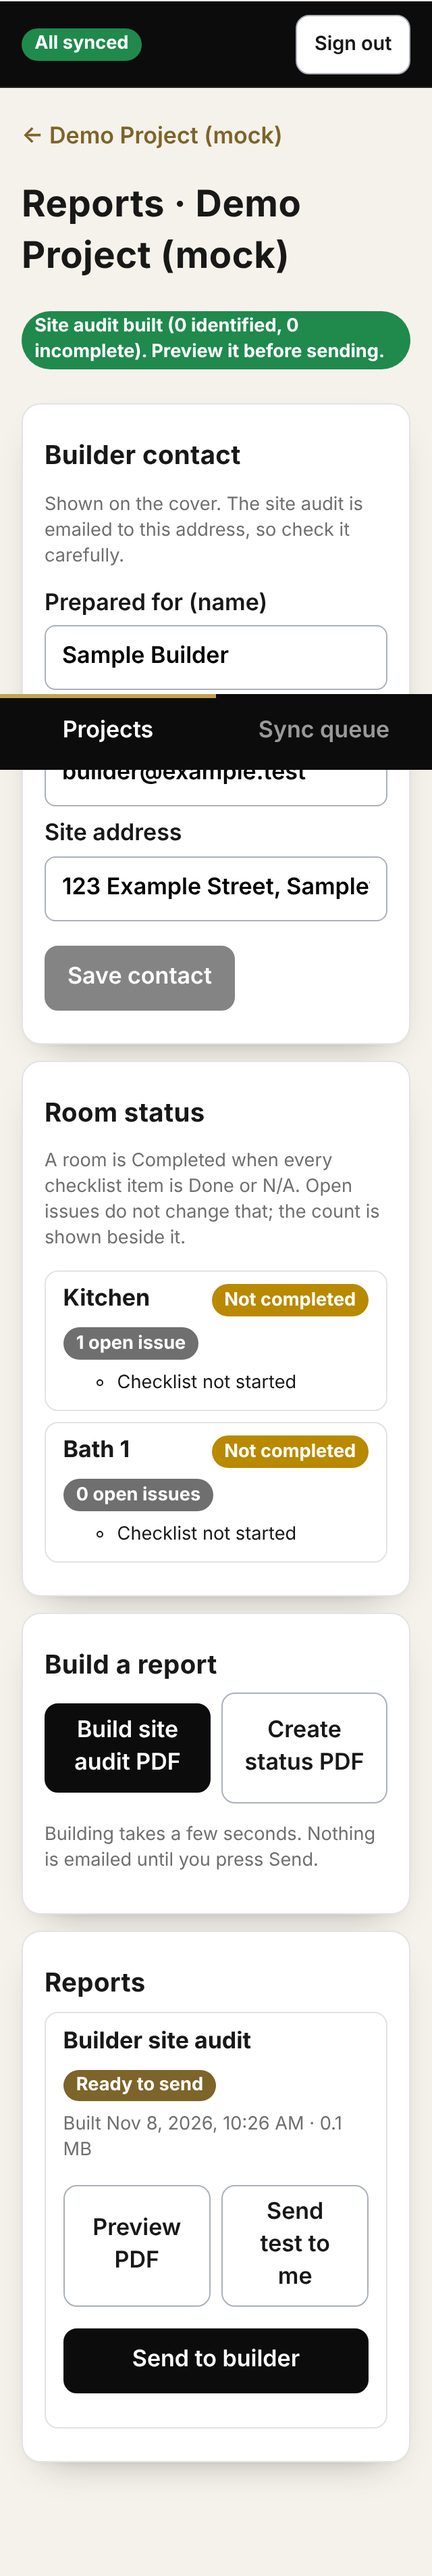
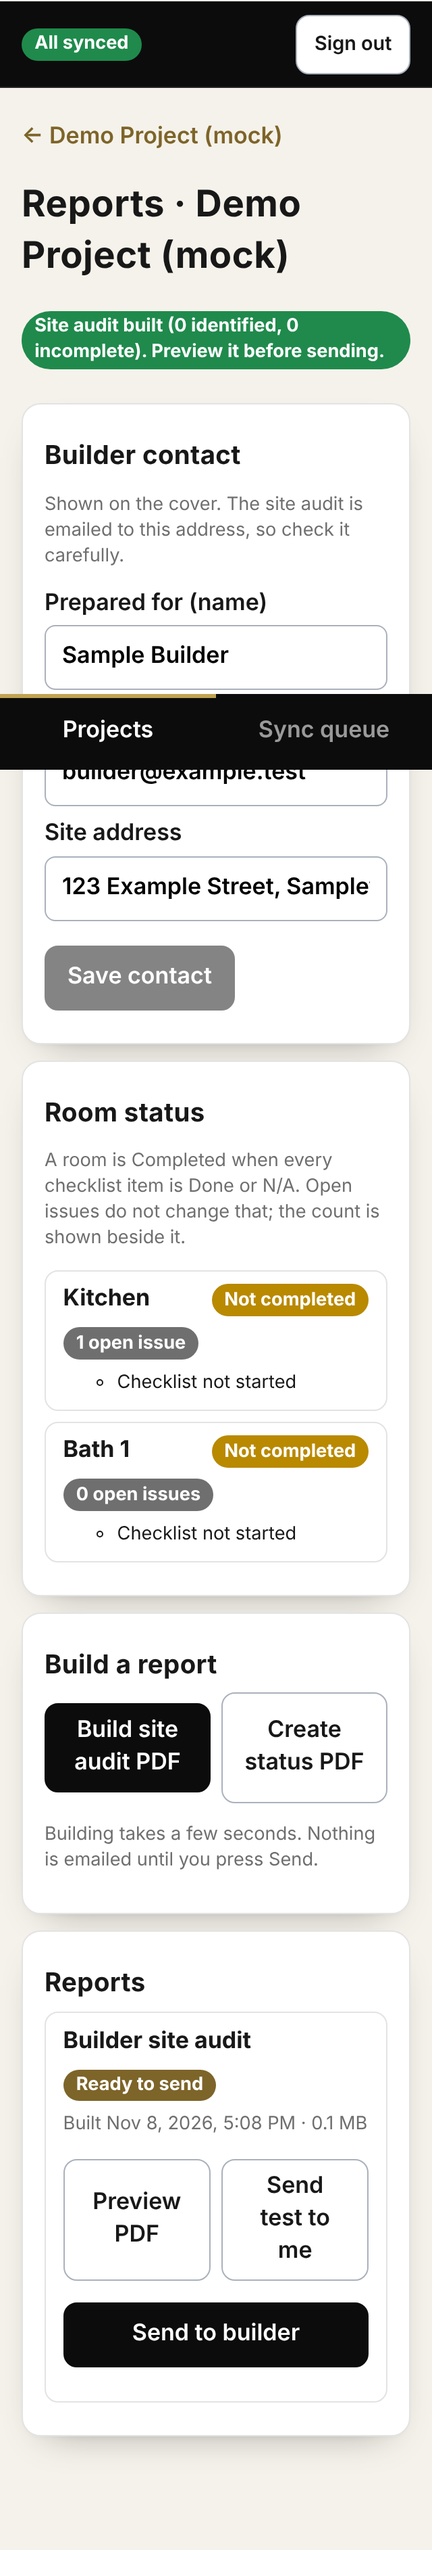
Rooms fold away (per job, remembered on the phone), Collapse all / Expand all; tests
Claude-Session: https://claude.ai/code/session_01Ko3122mEnym599Dv73L5jw

diff --git a/apps/field/src/ui/RoomCard.tsx b/apps/field/src/ui/RoomCard.tsx
@@ -14,7 +14,7 @@ function Details({ pairs }: { pairs: { key: string; label: string; value: string
 }
 
 /** One room: its details (read-only) and the completion checklist (tap a pill to mark it done). */
-export function RoomCard({ ctx, room, checks, issues, queue }: { ctx: AppCtx; room: RoomRow; checks: LocalRoomCheck[]; issues: LocalIssue[]; queue: OutboxRecord[] }) {
+export function RoomCard({ ctx, room, checks, issues, queue, collapsed = false, onToggle }: { ctx: AppCtx; room: RoomRow; checks: LocalRoomCheck[]; issues: LocalIssue[]; queue: OutboxRecord[]; collapsed?: boolean; onToggle?: () => void }) {
   const [open, setOpen] = useState<string | null>(null);
   const [asking, setAsking] = useState(false);
   const [note, setNote] = useState("");
@@ -24,6 +24,7 @@ export function RoomCard({ ctx, room, checks, issues, queue }: { ctx: AppCtx; ro
   const attention = queue.some((q) => q.op.entity === "room_check" && (q.state.status === "conflict" || (q.state.status === "failed" && !q.state.retryable)));
   const card = fieldsFor(room.details, CARD_FIELDS);
   const more = fieldsFor(room.details, MORE_FIELDS);
+  const openIssues = issues.filter((i) => !i.voidedAt && !i.completedAt).length;
 
   const cctx = { db: ctx.db, userId: ctx.identity.userId, userLabel: ctx.identity.label, newId: () => crypto.randomUUID(), now: () => new Date().toISOString(), notify: () => ctx.outbox.notify() };
   async function set(itemKey: string, state: CheckState | "clear", text?: string) {
@@ -42,13 +43,17 @@ export function RoomCard({ ctx, room, checks, issues, queue }: { ctx: AppCtx; ro
   const sel = open ? byKey.get(open) : undefined;
 
   return (
-    <section className="card room" data-testid="room-card" data-room={room.name}>
+    <section className="card room" data-testid="room-card" data-room={room.name} data-collapsed={collapsed ? "yes" : "no"}>
       <header className="roomhead">
-        <h2>{room.name}</h2>
+        <button className="roomtoggle" aria-expanded={!collapsed} onClick={onToggle} data-testid="room-toggle" aria-label={`${room.name}, ${collapsed ? "collapsed" : "expanded"}. Tap to ${collapsed ? "expand" : "collapse"}`}>
+          <span className="chev" aria-hidden="true">{collapsed ? "▸" : "▾"}</span><h2>{room.name}</h2>
+        </button>
+        {collapsed && openIssues > 0 && <span className="chip gray" data-testid="room-open-issues">{openIssues} open {openIssues === 1 ? "issue" : "issues"}</span>}
         <span className={`chip ${attention ? "bad" : prog.complete === prog.total ? "good" : prog.notDone > 0 ? "warn" : "gray"}`} data-testid="room-progress">
           {attention ? "needs attention" : `${prog.complete}/${prog.total}`}
         </span>
       </header>
+      <div hidden={collapsed} data-testid="room-body">
       {card.length > 0 ? <Details pairs={card} /> : <p className="muted small">No room details yet.</p>}
       {more.length > 0 && <details><summary>More details</summary><Details pairs={more} /></details>}
       {room.details_source && card.length + more.length > 0 && <p className="muted small">Details from {SOURCE[room.details_source] ?? room.details_source}.</p>}
@@ -94,6 +99,7 @@ export function RoomCard({ ctx, room, checks, issues, queue }: { ctx: AppCtx; ro
         <p className="notdone-note" key={c.itemKey} data-testid="notdone-line"><strong>{ROOM_CHECK_ITEMS.find((i) => i.key === c.itemKey)?.label}:</strong> {c.note} <small className="muted">— {c.by ?? "someone"}, {fmtWhen(c.at)}</small></p>
       ))}
       <IssueSection ctx={ctx} room={room} issues={issues} queue={queue} />
+      </div>
     </section>
   );
 }

diff --git a/apps/field/src/ui/ProjectView.tsx b/apps/field/src/ui/ProjectView.tsx
@@ -1,3 +1,4 @@
+import { useEffect, useState } from "react";
 import type { AppCtx } from "../App";
 import { useLive } from "./useLive";
 import { RoomCard } from "./RoomCard";
@@ -6,6 +7,11 @@ import { canManageReports } from "../lib/reportsApi";
 
 /** One job: its rooms, each with its details and checklist. */
 export function ProjectView({ ctx, projectId }: { ctx: AppCtx; projectId: string }) {
+  // Which rooms are folded away on this phone (remembered per job; nothing here is shared or synced).
+  const storeKey = `phc-rooms-collapsed:${projectId}`;
+  const [collapsed, setCollapsed] = useState<Set<string>>(() => { try { return new Set(JSON.parse(localStorage.getItem(storeKey) ?? "[]") as string[]); } catch { return new Set(); } });
+  useEffect(() => { try { localStorage.setItem(storeKey, JSON.stringify([...collapsed])); } catch { /* private window: it just will not be remembered */ } }, [collapsed, storeKey]);
+  const toggle = (id: string) => setCollapsed((c) => { const n = new Set(c); if (n.has(id)) n.delete(id); else n.add(id); return n; });
   const data = useLive(ctx.tick, async () => ({
     project: await ctx.db.get("projects", projectId),
     rooms: (await ctx.db.getAllFromIndex("rooms", "by_project", projectId)).sort((a, b) => a.name.localeCompare(b.name, undefined, { numeric: true })),
@@ -23,9 +29,15 @@ export function ProjectView({ ctx, projectId }: { ctx: AppCtx; projectId: string
       <h1>{project.name}</h1>
       <p className="muted">{[project.customer, project.address].filter(Boolean).join(" · ") || "No customer or address"}</p>
       {canManageReports(data.roles, projectId) && <div className="btnrow"><button onClick={() => ctx.go({ name: "reports", projectId })} data-testid="open-reports">Reports and builder contact</button></div>}
+      {rooms.length > 1 && (
+        <div className="btnrow">
+          <button onClick={() => setCollapsed(new Set(rooms.map((r) => r.id)))} data-testid="collapse-all">Collapse all rooms</button>
+          <button onClick={() => setCollapsed(new Set())} data-testid="expand-all">Expand all rooms</button>
+        </div>
+      )}
       {rooms.length === 0 && <p className="muted">No rooms on this project yet.</p>}
       {rooms.map((room) => (
-        <RoomCard key={room.id} ctx={ctx} room={room} checks={data.checks.filter((c) => c.roomId === room.id)} issues={data.issues.filter((i) => i.roomId === room.id)} queue={data.queue.filter((q) => q.auditId === room.id)} />
+        <RoomCard key={room.id} ctx={ctx} room={room} collapsed={collapsed.has(room.id)} onToggle={() => toggle(room.id)} checks={data.checks.filter((c) => c.roomId === room.id)} issues={data.issues.filter((i) => i.roomId === room.id)} queue={data.queue.filter((q) => q.auditId === room.id)} />
       ))}
     </>
   );

diff --git a/apps/field/src/styles.css b/apps/field/src/styles.css
@@ -63,6 +63,8 @@ summary::before { content: "▸"; display: inline-block; width: 1.1em; transitio
 @media (max-width: 360px) { .bar strong { display: none; } .bar { flex-wrap: nowrap; } }
 /* ---- rooms, details and the completion checklist ---- */
 .roomhead { display: flex; align-items: center; justify-content: space-between; gap: .5rem; } .roomhead h2 { margin: 0; }
+.roomtoggle { flex: 1; min-width: 0; display: flex; align-items: center; gap: .5rem; min-height: 48px; padding: 0; border: 0; background: none; text-align: left; color: var(--ink); cursor: pointer; }
+.roomtoggle .chev { color: var(--info); font-size: 1.1rem; width: 1.1em; }
 .spec { display: flex; flex-wrap: wrap; gap: .15rem 1rem; margin: .5rem 0; font-size: .9rem; } .spec > div { display: flex; gap: .35rem; }
 .spec dt { color: var(--gray); } .spec dd { margin: 0; font-weight: 700; } .spec dd.tbd { color: var(--warn); }
 .pills { display: flex; flex-wrap: wrap; gap: .5rem; margin: .75rem 0 .25rem; }
